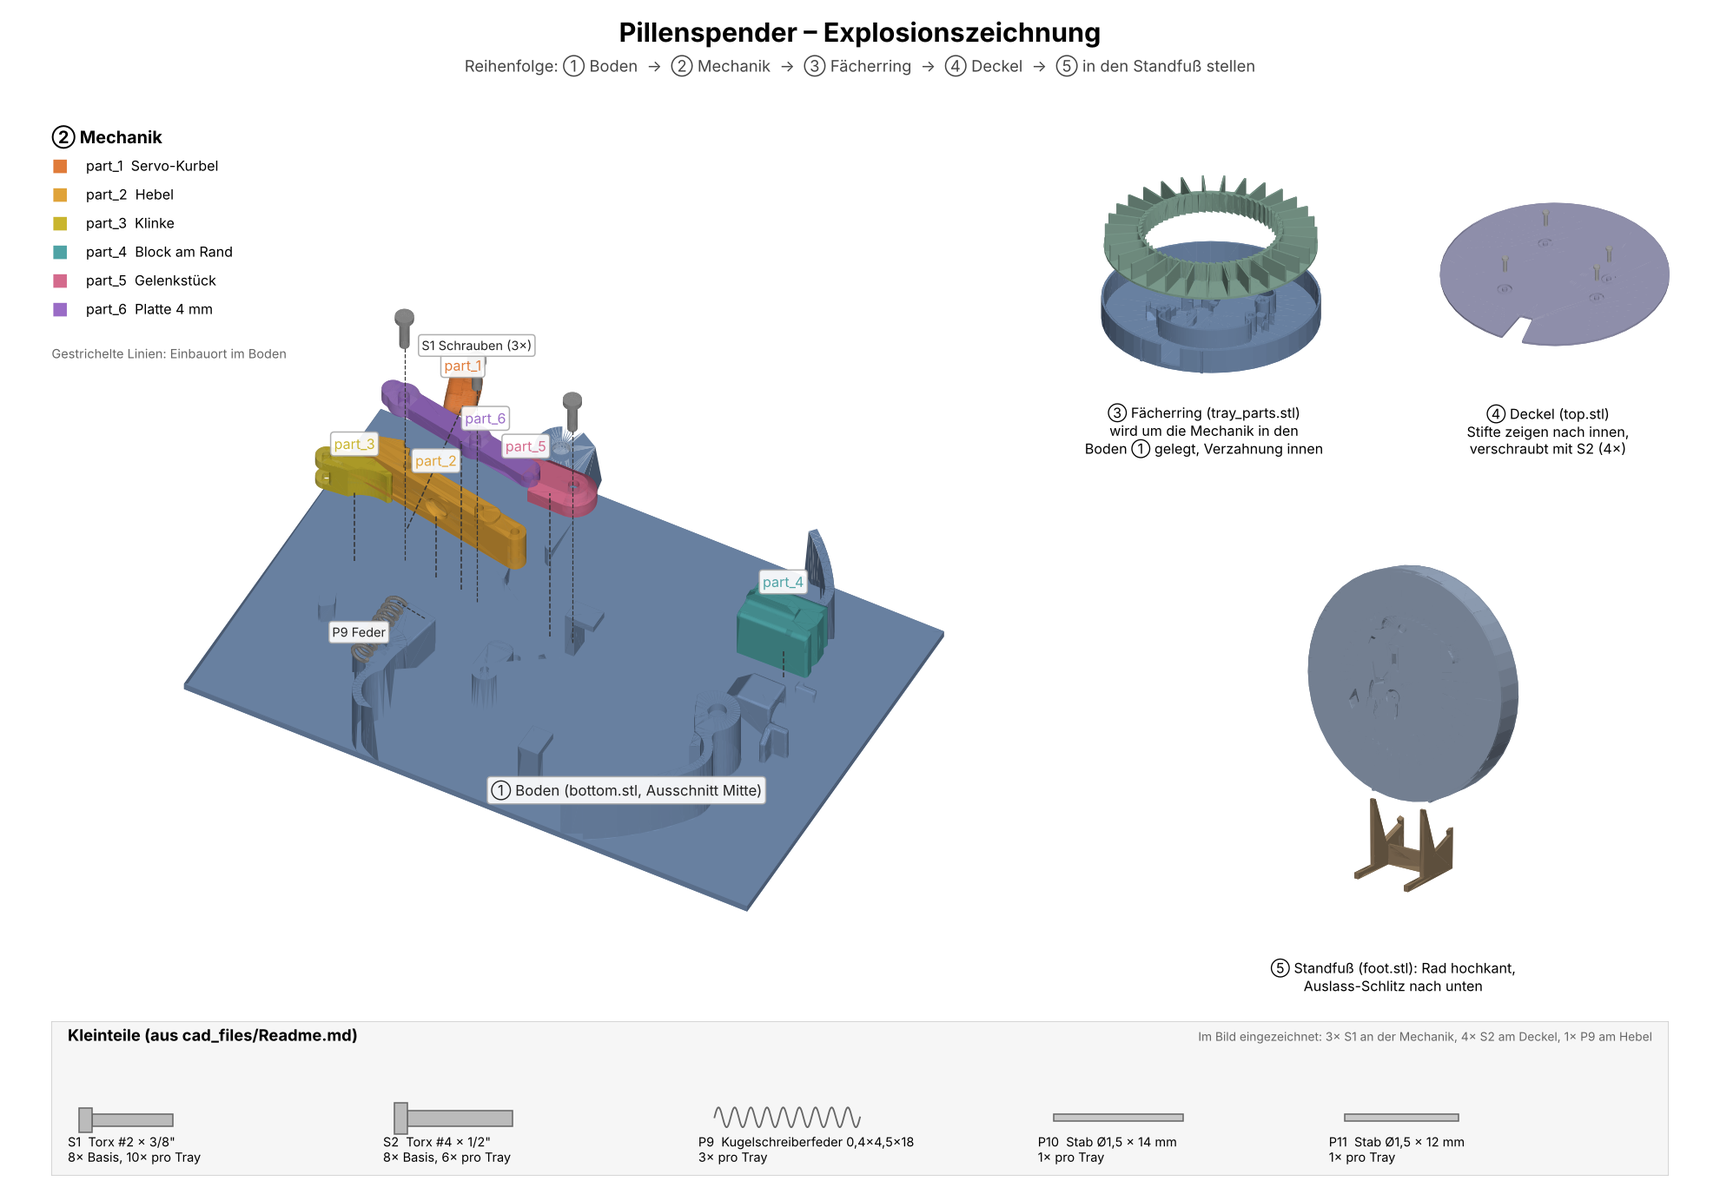
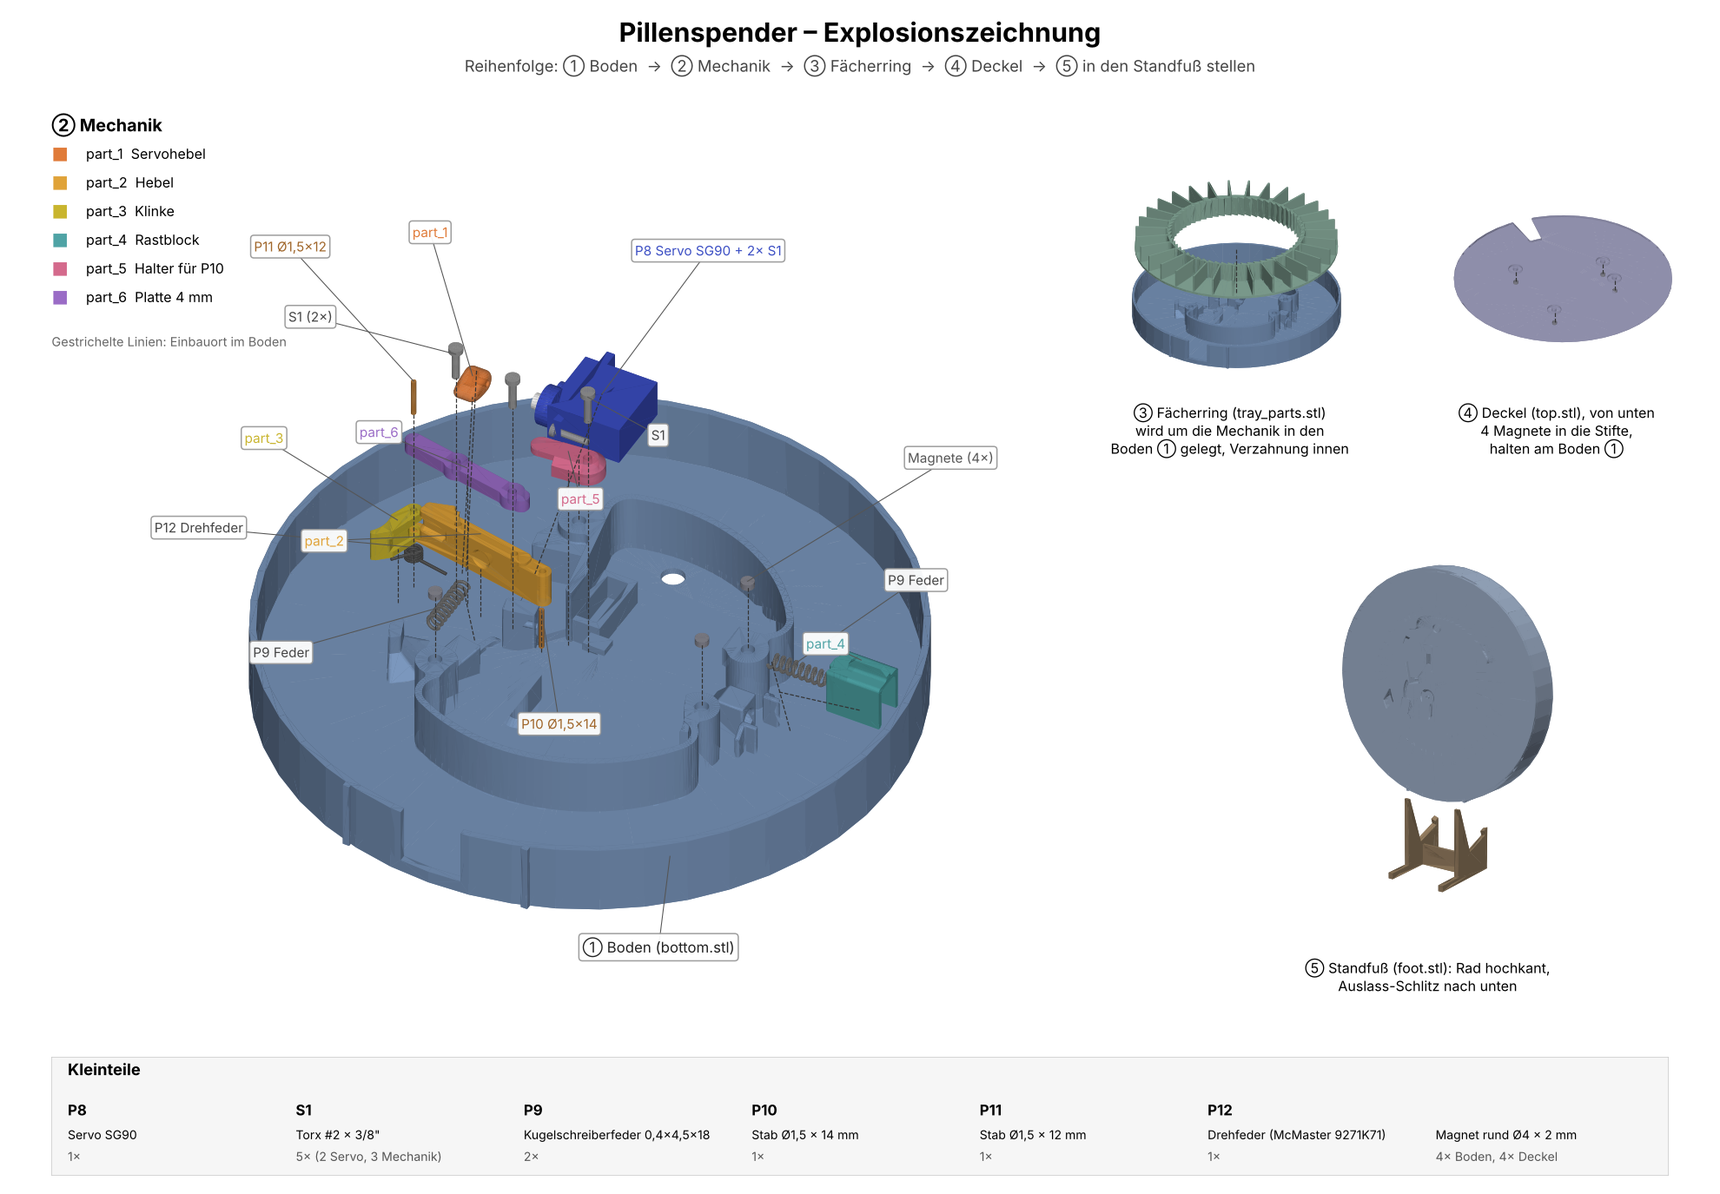
Exploded view: full bottom, servo, rods, springs and magnets
Show the whole round bottom, fix the pose of part_3 (pivot on P11 with
torsion spring P12) and part_5 (holds P10 in the floor pin), move the
lever spring into its bore, add the spring behind part_4, the SG90
servo with its two screws and the magnets in bottom and lid. The lid
is held by magnets, so its screws are no longer drawn.

Claude-Session: https://claude.ai/code/session_01SRv9jZhJbHwKEGwqSJzHod

diff --git a/cad_files/render_explosion.py b/cad_files/render_explosion.py
@@ -2,10 +2,14 @@
 # Run from cad_files/:  python3 render_explosion.py explosionszeichnung.png
 # Requires: pip install numpy matplotlib trimesh fast_simplification
 #
-# Coordinates are in the frame of bottom.stl. The mechanism poses were
-# derived from a photo of the assembled mechanism (camera pose fitted to the
-# four screw posts, part outlines matched to the photo), so they are accurate
-# to roughly 1-2 mm.
+# Coordinates are in the frame of bottom.stl (floor at z=0, open side +z).
+# Mechanism poses come from a photo of the assembled mechanism (camera pose
+# fitted to the screw posts) plus the hole positions in the STL files:
+#   - part_2 and part_6 share the two S1 screws (holes 20 mm apart)
+#   - P11 goes through part_6 / part_2 / part_3 at the pawl end (pivot of part_3)
+#   - P10 sits in the floor pin, goes through part_2 and is held by part_5,
+#     whose second hole (14 mm away) takes the third S1 screw
+#   - servo screw holes, spring bores and magnet recesses are taken from bottom.stl
 import sys
 import numpy as np
 import trimesh
@@ -18,22 +22,48 @@ OUT = sys.argv[1] if len(sys.argv) > 1 else 'explosionszeichnung.png'
 BC = np.array([0.5, 3.48])  # axis of bottom.stl
 LIGHT = np.array([0.35, -0.55, 0.75]) / np.linalg.norm([0.35, -0.55, 0.75])
 
-# local axis -> bottom.stl axis, yaw (deg), position of bbox centre (x, y) and bottom (z)
-POSES = {
-    1: (np.array([[0, 0, 1], [0, 1, 0], [-1, 0, 0]]).T, 16.8, (-43.8, 9.1, 6.2)),   # servo crank, upright
-    2: (np.eye(3), 79.5, (-30.9, -1.7, 2.5)),                                      # lever
-    3: (np.eye(3), 206.0, (-49.3, -5.2, 4.0)),                                     # pawl
-    4: (np.eye(3), 91.2, (52.3, 4.2, 2.0)),                                        # block at the rim
-    5: (np.diag([-1, 1, -1]), -90.2, (-0.4, -5.8, 9.3)),                           # link, upside down
-    6: (np.eye(3), 79.5, (-22.9, -4.9, 14.5)),                                     # plate on the lever
+S1A, S1B = np.array([-38.6, -2.0]), np.array([-18.7, -5.6])   # screws on the lever
+PIN = np.array([-8.5, -7.6])                                    # floor pin (P10)
+S3 = np.array([5.5, -6.4])                                      # screw in part_5
+U = (S1B - S1A) / np.linalg.norm(S1B - S1A)                     # lever direction (+x-ish)
+P11 = S1A - 15 * U                                              # pawl pivot
+MAGNETS = [(-22.9, 41.6), (44.0, 16.3), (43.9, -10.7), (-31.1, -28.3)]  # recesses on top of the posts
+
+
+def ang(v):
+    return np.degrees(np.arctan2(v[1], v[0]))
+
+
+def rz(deg):
+    a = np.radians(deg)
+    return np.array([[np.cos(a), -np.sin(a)], [np.sin(a), np.cos(a)]])
+
+
+def centre_for(hole_local, target, yaw, flip=False):
+    h = np.array(hole_local, float) * ([-1, 1] if flip else [1, 1])
+    return np.asarray(target) - rz(yaw) @ h
+
+
+UPRIGHT = np.array([[0, 0, 1], [0, 1, 0], [-1, 0, 0]]).T   # local x->z, y->y, z->-x
+FLIP = np.diag([-1, 1, -1])                                # upside down (about local y)
+yaw26 = ang(U) - 90                                        # local +y -> lever direction
+yaw2 = ang(-U) - 90                                        # part_2: hook end (+y) at the pawl
+yaw5 = ang(S3 - PIN) - 90
+yaw3 = 88.8                                                # claw tip towards the ratchet teeth
+POSES = {  # part: (local->bottom rotation, yaw, (x, y) of bbox centre, z of bottom face)
+    1: (UPRIGHT, 0.0, (-43.8, 11.6), 7.5),
+    2: (np.eye(3), yaw2, centre_for((-1.62, 7.5), S1A, yaw2), 2.5),
+    3: (np.eye(3), yaw3, centre_for((6.04, -1.8), P11, yaw3), 2.5),
+    4: (np.eye(3), -90.0, (60.4, 4.1), 2.0),
+    5: (FLIP, yaw5, centre_for((0, 5.93), S3, yaw5, flip=True), 14.5),
+    6: (np.eye(3), yaw26, centre_for((0, -4.0), S1A, yaw26), 14.5),
 }
-NAMES = {1: 'Servo-Kurbel', 2: 'Hebel', 3: 'Klinke', 4: 'Block am Rand',
-         5: 'Gelenkstück', 6: 'Platte 4 mm'}
+NAMES = {1: 'Servohebel', 2: 'Hebel', 3: 'Klinke', 4: 'Rastblock', 5: 'Halter für P10', 6: 'Platte 4 mm'}
 MCOL = {1: '#e07b39', 2: '#e0a339', 3: '#c9b52e', 4: '#4fa3a5', 5: '#d46a8c', 6: '#9a6cc6'}
-LIFT = {1: 26, 2: 38, 3: 38, 4: 30, 5: 62, 6: 62}
-SHIFT = {1: (0, 26)}  # extra sideways offset so nothing is hidden
-SCREW_S1 = [(-38.6, -2.0), (-18.7, -5.6), (5.5, -6.4)]            # mechanism screws (photo)
-BOSSES = [(-22.9, 41.6), (44.0, 16.3), (43.9, -10.7), (-31.1, -28.3)]  # lid screws
+# explosion offsets (dx, dy, dz) per element
+OFF = {1: (-18, 40, 36), 2: (0, 0, 32), 3: (0, 0, 32), 4: (26, 0, 24), 5: (0, 0, 74), 6: (0, 0, 52),
+       'servo': (0, 40, 36), 'p10': (0, 0, 16), 'p11': (0, 0, 78), 'p12': (0, 0, 20), 'spring2': (0, -16, 26),
+       'spring4': (12, 0, 24), 'mag': (0, 0, 26), 'screws2': (0, 0, 92), 'screw3': (0, 0, 96)}
 
 
 def load(f, n=None):
@@ -43,62 +73,83 @@ def load(f, n=None):
     return m
 
 
-def place(m, R0, yaw, pos):
+def place(m, R0, yaw, xy, z0):
     a = np.radians(yaw)
     Rz = np.array([[np.cos(a), -np.sin(a), 0], [np.sin(a), np.cos(a), 0], [0, 0, 1]])
     V = m.vertices - np.r_[m.bounds.mean(0)[:2], m.bounds[0][2]]
     V = (Rz @ R0 @ V.T).T
     V -= np.r_[(V.min(0) + V.max(0))[:2] / 2, V[:, 2].min()]
-    return trimesh.Trimesh(V + np.array(pos), m.faces, process=False)
+    return trimesh.Trimesh(V + np.r_[xy, z0], m.faces, process=False)
 
 
-def screw(xy, ztip, d, length, head=None):
-    head = head or d * 1.9
-    sh = trimesh.creation.cylinder(radius=d / 2, height=length, sections=16)
-    sh.apply_translation([xy[0], xy[1], ztip + length / 2])
-    hd = trimesh.creation.cylinder(radius=head / 2, height=d * 0.7, sections=24)
-    hd.apply_translation([xy[0], xy[1], ztip + length + d * 0.35])
-    return trimesh.util.concatenate([sh, hd])
+def moved(m, off):
+    m = m.copy(); m.apply_translation(off); return m
 
 
-def spring(p0, axis, length=18, od=4.5, wire=0.45, turns=9):
-    t = np.linspace(0, 2 * np.pi * turns, 400)
+def cyl(p0, p1, r, sections=20):
+    return trimesh.creation.cylinder(radius=r, segment=[p0, p1], sections=sections)
+
+
+def screw(tip, direction, d, length):
+    direction = np.asarray(direction, float) / np.linalg.norm(direction)
+    tip = np.asarray(tip, float)
+    top = tip + direction * length
+    head = cyl(top, top + direction * d * 0.75, d * 0.95, 24)
+    return trimesh.util.concatenate([cyl(tip, top, d / 2, 12), head])
+
+
+def helix(p0, axis, length, od, wire=0.45, turns=9, n=300):
+    t = np.linspace(0, 2 * np.pi * turns, n)
     axis = np.asarray(axis, float) / np.linalg.norm(axis)
     u = np.cross(axis, [0, 0, 1]) if abs(axis[2]) < 0.9 else np.array([1., 0, 0])
-    u /= np.linalg.norm(u)
-    w = np.cross(axis, u)
-    r = (od - wire) / 2
-    pts = np.asarray(p0) + np.outer(t / t[-1] * length, axis) + r * (np.outer(np.cos(t), u) + np.outer(np.sin(t), w))
-    segs = []
-    for a, b in zip(pts[:-1], pts[1:]):
-        c = trimesh.creation.cylinder(radius=wire, segment=[a, b], sections=6)
-        segs.append(c)
-    return trimesh.util.concatenate(segs)
+    u /= np.linalg.norm(u); w = np.cross(axis, u); r = (od - wire) / 2
+    pts = np.asarray(p0, float) + np.outer(t / t[-1] * length, axis) + r * (np.outer(np.cos(t), u) + np.outer(np.sin(t), w))
+    return trimesh.util.concatenate([cyl(a, b, wire, 6) for a, b in zip(pts[:-1], pts[1:])]), pts
 
 
-def shade(m, col, light=LIGHT):
-    n = m.face_normals
-    s = np.abs(n @ light) * 0.62 + 0.38
-    c = np.array(matplotlib.colors.to_rgb(col))
-    return np.clip(c[None] * s[:, None], 0, 1)
+def torsion_spring(c, z0, legs):
+    coil, pts = helix((c[0], c[1], z0), (0, 0, 1), 3.5, 5.0, turns=4, n=160)
+    parts = [coil]
+    for p, d in zip((pts[0], pts[-1]), legs):
+        parts.append(cyl(p, p + np.r_[d, 0] * 9, 0.45, 6))
+    return trimesh.util.concatenate(parts)
+
+
+def servo_sg90():
+    """SG90 lying on its side: shaft along -x at (y=14, z=11), tabs screwed to the posts."""
+    xb, yc, zc = -13.6, 19.5, 11.0
+    body = trimesh.creation.box(bounds=[[xb - 22.7, yc - 11.4, zc - 6.1], [xb, yc + 11.4, zc + 6.1]])
+    tabs = trimesh.creation.box(bounds=[[xb - 18.4, yc - 16.1, zc - 6.1], [xb - 15.9, yc + 16.1, zc + 6.1]])
+    bump = cyl([xb - 22.7, 14, zc], [xb - 26.7, 14, zc], 5.9, 32)
+    bump2 = cyl([xb - 22.7, 20.5, zc], [xb - 25.7, 20.5, zc], 3.0, 24)
+    shaft = cyl([xb - 26.7, 14, zc], [xb - 29.7, 14, zc], 2.4, 20)
+    blue = trimesh.util.concatenate([body, tabs, bump, bump2])
+    screws = [screw([xb - 8.5, y, zc], [-1, 0, 0], 2.0, 9.9) for y in (yc - 13.9, yc + 13.9)]
+    return blue, shaft, trimesh.util.concatenate(screws)
+
+
+def shade(m, col):
+    s = np.abs(m.face_normals @ LIGHT) * 0.62 + 0.38
+    return np.clip(np.array(matplotlib.colors.to_rgb(col))[None] * s[:, None], 0, 1)
 
 
 def draw(ax, items, lims, elev, azim, box=None):
-    polys, cols = [], []
-    for m, col in items:
-        polys.append(m.vertices[m.faces])
-        cols.append(shade(m, col))
-    ax.add_collection3d(Poly3DCollection(np.concatenate(polys), facecolors=np.concatenate(cols),
-                                         edgecolor='none'))
+    polys = np.concatenate([m.vertices[m.faces] for m, _ in items])
+    cols = np.concatenate([shade(m, c) for m, c in items])
+    ax.add_collection3d(Poly3DCollection(polys, facecolors=cols, edgecolor='none'))
     ax.set_xlim(*lims[0]); ax.set_ylim(*lims[1]); ax.set_zlim(*lims[2])
     ax.set_box_aspect(box or [l[1] - l[0] for l in lims])
-    ax.view_init(elev=elev, azim=azim)
-    ax.set_axis_off()
+    ax.view_init(elev=elev, azim=azim); ax.set_axis_off()
 
 
-def label(ax, p, text, color='#222', size=10.5, **kw):
-    ax.text(*p, text, fontsize=size, ha='center', va='bottom', color=color, zorder=50,
-            bbox=dict(boxstyle='round,pad=0.25', fc='white', ec='#aaa', alpha=0.92), **kw)
+def callout(ax, anchor, pos, text, color='#222', size=10):
+    ax.plot(*zip(anchor, pos), '-', color='#555', lw=0.7, zorder=45)
+    ax.text(*pos, text, fontsize=size, ha='center', va='center', color=color, zorder=50,
+            bbox=dict(boxstyle='round,pad=0.25', fc='white', ec='#999', alpha=0.95))
+
+
+def guide(ax, a, b):
+    ax.plot(*zip(a, b), '--', color='#333', lw=0.8, zorder=40)
 
 
 bottom = load('bottom.stl')
@@ -113,89 +164,107 @@ fig.text(0.5, 0.94, 'Reihenfolge: ① Boden  →  ② Mechanik  →  ③ Fächer
          ha='center', fontsize=12, color='#444')
 
 # ---------- main view: bottom + exploded mechanism ----------
-ax = fig.add_axes([0.0, 0.13, 0.64, 0.84], projection='3d')
-ax.set_proj_type('ortho')
-tc = bottom.triangles_center  # crop to the centre region (faces outside are dropped)
-cut = bottom.submesh([np.where((np.abs(tc[:, 0]) < 70) & (np.abs(tc[:, 1]) < 46) & (tc[:, 2] > 2.2))[0]], append=True)
-slab = trimesh.creation.box(extents=[140, 92, 2]); slab.apply_translation([0, 0, 1])
-items = [(slab, '#7b97bd'), (cut, '#7b97bd')]
+ax = fig.add_axes([0.0, 0.12, 0.66, 0.84], projection='3d'); ax.set_proj_type('ortho')
+items = [(bottom, '#7b97bd')]
 for i, m in mech.items():
-    dx, dy = SHIFT.get(i, (0, 0))
-    mm = m.copy(); mm.apply_translation([dx, dy, LIFT[i]]); items.append((mm, MCOL[i]))
-for j, xy in enumerate(SCREW_S1):
-    items.append((screw(xy, 19 + 80, 2.2, 9.5), '#9a9a9a'))
-sp = spring((-29.7, -40, 8 + 22), (0, 1, 0)); items.append((sp, '#8a8a8a'))
-draw(ax, items, [(-72, 72), (-72, 72), (-5, 110)], elev=48, azim=-62, box=[144, 144, 100])
-for i, m in mech.items():
-    c = m.bounds.mean(0); dx, dy = SHIFT.get(i, (0, 0))
-    ax.plot([c[0], c[0] + dx], [c[1], c[1] + dy], [m.bounds[1][2] + 1, m.bounds[0][2] + LIFT[i] - 1], '--', color='#333', lw=1.0, zorder=40)
-    lp = (c[0] + dx + (6 if i == 6 else -6 if i == 5 else 0), c[1] + dy, m.bounds[1][2] + LIFT[i] + 4)
-    label(ax, lp, f'part_{i}', color=MCOL[i])
-for xy in SCREW_S1:
-    ax.plot([xy[0]] * 2, [xy[1]] * 2, [98, 18], '--', color='#333', lw=0.8, zorder=40)
-label(ax, (SCREW_S1[1][0], SCREW_S1[1][1], 112), 'S1 Schrauben (3×)', size=9.5)
-ax.plot([-29.7, -29.7], [-22, -9], [30, 9], '--', color='#333', lw=0.8, zorder=40)
-label(ax, (-29.7, -40, 36), 'P9 Feder', size=9.5)
-label(ax, (40, -46, 24), '① Boden (bottom.stl, Ausschnitt Mitte)', size=11)
-fig.text(0.03, 0.88, '② Mechanik', fontsize=13, weight='bold')
-for k, i in enumerate(POSES):
-    fig.text(0.03, 0.855 - k * 0.024, '■', color=MCOL[i], fontsize=14)
-    fig.text(0.05, 0.857 - k * 0.024, f'part_{i}  {NAMES[i]}', fontsize=10.5)
-fig.text(0.03, 0.70, 'Gestrichelte Linien: Einbauort im Boden', fontsize=9.5, color='#666')
+    items.append((moved(m, OFF[i]), MCOL[i]))
+blue, shaft, sscrews = servo_sg90()
+for m, c in ((blue, '#3c4fc4'), (shaft, '#f2f2f2'), (sscrews, '#9a9a9a')):
+    items.append((moved(m, OFF['servo']), c))
+p10 = cyl([*PIN, 2.2], [*PIN, 16.2], 0.75, 10)
+p11 = cyl([*P11, 2.5], [*P11, 14.5], 0.75, 10)
+items += [(moved(p10, OFF['p10']), '#c0803a'), (moved(p11, OFF['p11']), '#c0803a')]
+items.append((moved(torsion_spring(P11, 6.0, [U, -rz(60) @ U]), OFF['p12']), '#555555'))
+sp2, _ = helix((-30.5, -15.0, 10.0), (0, 1, 0), 18, 4.5)          # lever spring, bore in the post
+sp4, _ = helix((46.0, 4.0, 8.0), (1, 0, 0), 18, 4.5)              # spring behind part_4
+items += [(moved(sp2, OFF['spring2']), '#777'), (moved(sp4, OFF['spring4']), '#777')]
+mags = [cyl([x, y, 18.2], [x, y, 20.2], 2.0, 20) for x, y in MAGNETS]
+items += [(moved(mg, OFF['mag']), '#8c8c96') for mg in mags]
+lever_screws = [screw([*p, 14.5 + 4 - 8], [0, 0, 1], 2.2, 9.5) for p in (S1A, S1B)]
+items += [(moved(s, OFF['screws2']), '#9a9a9a') for s in lever_screws]
+items.append((moved(screw([*S3, 20.5 - 9.5 + 1], [0, 0, 1], 2.2, 9.5), OFF['screw3']), '#9a9a9a'))
+draw(ax, items, [(-92, 92), (-92, 92), (-5, 120)], elev=42, azim=-62, box=[184, 184, 125])
 
-# ---------- ring ----------
-ax = fig.add_axes([0.60, 0.62, 0.20, 0.30], projection='3d'); ax.set_proj_type('ortho')
-rl = ring.copy(); rl.apply_translation([0, 0, 70])
-draw(ax, [(bottom, '#7b97bd'), (rl, '#8fb3a3')], [(-100, 100), (-100, 100), (-10, 110)], elev=30, azim=-68)
-ax.plot([BC[0]] * 2, [BC[1]] * 2, [25, 70], '--', color='#333', lw=0.8)
-fig.text(0.70, 0.62, '③ Fächerring (tray_parts.stl)\nwird um die Mechanik in den\nBoden ① gelegt, Verzahnung innen',
+# dashed assembly lines and callouts
+for i, m in mech.items():
+    c = m.bounds.mean(0); o = np.array(OFF[i]); top = np.r_[c[:2], m.bounds[1][2]]
+    guide(ax, top + [0, 0, 1], top + o - [0, 0, m.extents[2] + 1])
+guide(ax, [*PIN, 16], [*PIN, 16 + OFF['p10'][2]])
+guide(ax, [*P11, 15], [*P11, 2.5 + OFF['p11'][2]])
+for p in (S1A, S1B):
+    guide(ax, [*p, 19], [*p, 10 + OFF['screws2'][2]])
+guide(ax, [*S3, 21], [*S3, 12 + OFF['screw3'][2]])
+guide(ax, [-30.5, -6, 10], [-30.5, -15 - 16 + 18, 10 + 26])
+guide(ax, [64, 4, 8], [46 + 12, 4, 8 + 24])
+for x, y in MAGNETS:
+    guide(ax, [x, y, 21], [x, y, 18 + OFF['mag'][2]])
+guide(ax, [-25, 19.5, 17], [-25, 19.5 + 40, 17 + 36])
+guide(ax, [-43.8, 14, 14.5], [-43.8 - 18, 14 + 40, 14.5 + 36])
+
+hi = lambda m, off: np.r_[m.bounds.mean(0)[:2] + off[:2], m.bounds[1][2] + off[2]]
+callouts = [
+    (hi(mech[1], OFF[1]), (-85, 70, 80), 'part_1', MCOL[1]),
+    (hi(mech[3], OFF[3]), (-95, -10, 62), 'part_3', MCOL[3]),
+    (hi(mech[2], OFF[2]), (-60, -40, 62), 'part_2', MCOL[2]),
+    (hi(mech[6], OFF[6]), (-48, -30, 100), 'part_6', MCOL[6]),
+    (hi(mech[5], OFF[5]), (20, -38, 110), 'part_5', MCOL[5]),
+    (hi(mech[4], OFF[4]), (88, -20, 70), 'part_4', MCOL[4]),
+    (np.r_[-25, 59.5, 17 + 36], (-5, 85, 95), 'P8 Servo SG90 + 2× S1', '#3c4fc4'),
+    (np.r_[S1A, 19 + 92], (-75, -20, 124), 'S1 (2×)', '#444'),
+    (np.r_[S3, 21 + 96], (35, -20, 126), 'S1', '#444'),
+    (np.r_[P11, 14.5 + 78], (-100, 15, 112), 'P11 Ø1,5×12', '#a0662a'),
+    (np.r_[PIN, 16 + 16], (25, -60, 45), 'P10 Ø1,5×14', '#a0662a'),
+    (np.r_[P11, 10 + 20], (-105, -30, 40), 'P12 Drehfeder', '#444'),
+    (np.r_[-30.5, -22, 36], (-55, -75, 50), 'P9 Feder', '#444'),
+    (np.r_[64, 4, 32], (90, 30, 55), 'P9 Feder', '#444'),
+    (np.r_[MAGNETS[1], 46], (85, 60, 75), 'Magnete (4×)', '#555'),
+]
+for a, p, t, c in callouts:
+    callout(ax, a, p, t, c)
+callout(ax, np.r_[60, -60, 10], (75, -95, 10), '① Boden (bottom.stl)', size=11)
+fig.text(0.03, 0.89, '② Mechanik', fontsize=13, weight='bold')
+for k, i in enumerate(POSES):
+    fig.text(0.03, 0.865 - k * 0.024, '■', color=MCOL[i], fontsize=14)
+    fig.text(0.05, 0.867 - k * 0.024, f'part_{i}  {NAMES[i]}', fontsize=10.5)
+fig.text(0.03, 0.71, 'Gestrichelte Linien: Einbauort im Boden', fontsize=9.5, color='#666')
+
+# ---------- ring over the bottom ----------
+ax = fig.add_axes([0.62, 0.62, 0.19, 0.30], projection='3d'); ax.set_proj_type('ortho')
+draw(ax, [(bottom, '#7b97bd'), (moved(ring, [0, 0, 70]), '#8fb3a3')], [(-100, 100), (-100, 100), (-10, 110)], elev=30, azim=-68)
+guide(ax, [*BC, 25], [*BC, 70])
+fig.text(0.715, 0.62, '③ Fächerring (tray_parts.stl)\nwird um die Mechanik in den\nBoden ① gelegt, Verzahnung innen',
          ha='center', fontsize=10.5)
 
-# ---------- lid with screws ----------
-ax = fig.add_axes([0.80, 0.62, 0.20, 0.30], projection='3d'); ax.set_proj_type('ortho')
-lid_items = [(lid, '#a7a7c9')] + [(screw(xy, 40, 2.8, 12.7), '#b8b8b8') for xy in BOSSES]
-draw(ax, lid_items, [(-100, 100), (-100, 100), (-10, 70)], elev=38, azim=-68)
-for xy in BOSSES:
-    ax.plot([xy[0]] * 2, [xy[1]] * 2, [39, 25], ':', color='#777', lw=1)
-fig.text(0.90, 0.62, '④ Deckel (top.stl)\nStifte zeigen nach innen,\nverschraubt mit S2 (4×)', ha='center', fontsize=10.5)
+# ---------- lid with magnets ----------
+ax = fig.add_axes([0.81, 0.62, 0.19, 0.30], projection='3d'); ax.set_proj_type('ortho')
+lid_mags = [cyl([x, y, 6], [x, y, 8], 2.0, 20) for x, y in MAGNETS]
+draw(ax, [(lid, '#a7a7c9')] + [(m, '#8c8c96') for m in lid_mags], [(-100, 100), (-100, 100), (-10, 70)], elev=-35, azim=-68)
+for x, y in MAGNETS:
+    guide(ax, [x, y, 8], [x, y, 20])
+fig.text(0.905, 0.62, '④ Deckel (top.stl), von unten\n4 Magnete in die Stifte,\nhalten am Boden ①', ha='center', fontsize=10.5)
 
 # ---------- standing in the foot ----------
-ax = fig.add_axes([0.66, 0.17, 0.30, 0.42], projection='3d'); ax.set_proj_type('persp', focal_length=0.5)
+ax = fig.add_axes([0.68, 0.17, 0.30, 0.42], projection='3d'); ax.set_proj_type('persp', focal_length=0.5)
 disc = trimesh.util.concatenate([load('bottom.stl'), ring.copy(), lid.copy()])
 disc.vertices = np.c_[disc.vertices[:, 0], disc.vertices[:, 2], disc.vertices[:, 1]]  # stand upright, outlet down
 fv = foot.vertices
 fm = trimesh.Trimesh(np.c_[-fv[:, 0] + 7 + BC[0], -fv[:, 1] + 6, fv[:, 2] - 25 + (BC[1] - 95.5) - 40], foot.faces)
 draw(ax, [(disc, '#9fb0c8'), (fm, '#9c8466')], [(-110, 110), (-110, 110), (-175, 105)], elev=15, azim=-55)
 ax.plot([BC[0]] * 2, [11, 11], [BC[1] - 95.5 - 3, fm.bounds[1][2] + 3], ':', color='#555', lw=1.2)
-fig.text(0.81, 0.17, '⑤ Standfuß (foot.stl): Rad hochkant,\nAuslass-Schlitz nach unten', ha='center', fontsize=10.5)
+fig.text(0.83, 0.17, '⑤ Standfuß (foot.stl): Rad hochkant,\nAuslass-Schlitz nach unten', ha='center', fontsize=10.5)
 
-# ---------- hardware strip (cad_files/Readme.md) ----------
-hw = fig.add_axes([0.03, 0.015, 0.94, 0.13]); hw.set_xlim(0, 100); hw.set_ylim(0, 14); hw.axis('off')
-hw.add_patch(plt.Rectangle((0, 0), 100, 14, fc='#f6f6f6', ec='#ccc'))
-hw.text(1, 12.2, 'Kleinteile (aus cad_files/Readme.md)', fontsize=12, weight='bold')
-
-
-def icon_screw(x, L, d):
-    hw.add_patch(plt.Rectangle((x, 4.5), L, d, fc='#bbb', ec='#666'))
-    hw.add_patch(plt.Rectangle((x - 0.8, 4.5 - d * 0.5), 0.8, d * 2, fc='#bbb', ec='#666'))
-
-
-def icon_rod(x, L):
-    hw.add_patch(plt.Rectangle((x, 5), L, 0.6, fc='#c9c9c9', ec='#666'))
-
-
-icon_screw(2.5, 5, 1.1)
-hw.text(1, 1.3, 'S1  Torx #2 × 3/8"\n8× Basis, 10× pro Tray', fontsize=9.5)
-icon_screw(22, 6.5, 1.4)
-hw.text(20.5, 1.3, 'S2  Torx #4 × 1/2"\n8× Basis, 6× pro Tray', fontsize=9.5)
-xs = np.linspace(41, 50, 200)
-hw.plot(xs, 5.3 + 0.9 * np.sin((xs - 41) * 2 * np.pi * 9 / 9), color='#666', lw=1.2)
-hw.text(40, 1.3, 'P9  Kugelschreiberfeder 0,4×4,5×18\n3× pro Tray', fontsize=9.5)
-icon_rod(62, 8)
-hw.text(61, 1.3, 'P10  Stab Ø1,5 × 14 mm\n1× pro Tray', fontsize=9.5)
-icon_rod(80, 7)
-hw.text(79, 1.3, 'P11  Stab Ø1,5 × 12 mm\n1× pro Tray', fontsize=9.5)
-hw.text(99, 12.2, 'Im Bild eingezeichnet: 3× S1 an der Mechanik, 4× S2 am Deckel, 1× P9 am Hebel',
-        fontsize=9, color='#666', ha='right')
+# ---------- hardware strip ----------
+hw = fig.add_axes([0.03, 0.015, 0.94, 0.10]); hw.set_xlim(0, 100); hw.set_ylim(0, 11); hw.axis('off')
+hw.add_patch(plt.Rectangle((0, 0), 100, 11, fc='#f6f6f6', ec='#ccc'))
+hw.text(1, 9.3, 'Kleinteile', fontsize=12, weight='bold')
+rows = [('P8', 'Servo SG90', '1×'), ('S1', 'Torx #2 × 3/8"', '5× (2 Servo, 3 Mechanik)'),
+        ('P9', 'Kugelschreiberfeder 0,4×4,5×18', '2×'), ('P10', 'Stab Ø1,5 × 14 mm', '1×'),
+        ('P11', 'Stab Ø1,5 × 12 mm', '1×'), ('P12', 'Drehfeder (McMaster 9271K71)', '1×'),
+        ('', 'Magnet rund Ø4 × 2 mm', '4× Boden, 4× Deckel')]
+for k, (code, name, n) in enumerate(rows):
+    x = 1 + k * 14.1
+    hw.text(x, 5.6, code, fontsize=11, weight='bold')
+    hw.text(x, 3.4, name, fontsize=9.2)
+    hw.text(x, 1.4, n, fontsize=9.2, color='#555')
 
 plt.savefig(OUT, dpi=110)
